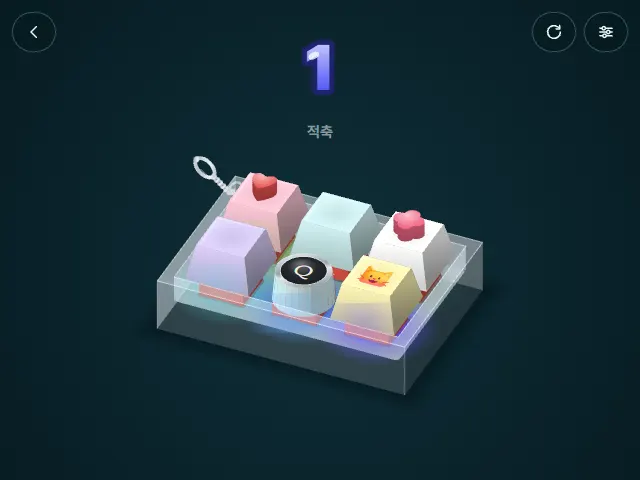
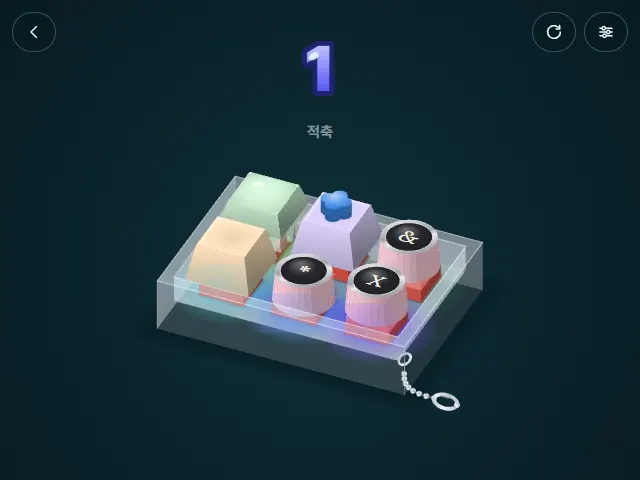
키링을 흔들지 않는다 — 탁자 위에 놓인 채 케이스와 함께 돈다
물리를 두 번 시도했지만 둘 다 틀렸다. 화면 평면에서 끌면 돌릴 때마다 휘둘리고,
중력으로 늘어뜨리면 공중에 매달린 꼴이라 탁자 위 장면과 맞지 않는다.
줄을 탁자면에 곡선으로 한 번 깔고 케이스와 같이 돌기만 하게 했다 — 흔들림도 자리 튐도 없다.

diff --git a/lib/engines/KeycapEngine.ts b/lib/engines/KeycapEngine.ts
@@ -66,8 +66,6 @@ export const createKeycapEngine: EngineFactory = (canvas, ctx0) => {
   }
   let keys: Key[] = [];
   /** 키링 줄의 구슬 — 선언이 layout() 보다 뒤면 초기화 때 TDZ 로 터진다 */
-  type Bead = { rx: number; ry: number; px: number; py: number };
-  let chain: Bead[] = [];
   let cols = 1, rows = 1, S = 80, cx = 0, cy = 0;
   let yaw = YAW0, pitch = PITCH0;
   let CT = Math.cos(yaw), ST = Math.sin(yaw);
@@ -105,7 +103,6 @@ export const createKeycapEngine: EngineFactory = (canvas, ctx0) => {
     cols = count <= 4 ? Math.ceil(Math.sqrt(count)) : 3;
     if (count === 2 || count === 3) cols = count;
     rows = Math.ceil(count / cols);
-    chain = [];
     for (let i = 0; i < keys.length; i++) {
       const col = i % cols, row = Math.floor(i / cols);
       const rowCount = row === rows - 1 ? count - row * cols : cols;
@@ -446,105 +443,76 @@ export const createKeycapEngine: EngineFactory = (canvas, ctx0) => {
    * 베를레로 푼다. 케이스가 돌면 매단 자리가 원을 그리며 움직이고 줄이 뒤따라 끌린다 —
    * 카메라 방향으로 모서리를 골라 매달면 각도가 바뀔 때마다 자리가 튄다 (2026-09-13 사용자 지적).
    */
-  const CHAIN_N = 8, CHAIN_L = 0.075;
-  /** 매단 자리 — 모델의 한 모서리를 yaw 로 돌린 평면 좌표 */
-  const chainAnchor = (): [number, number] => {
-    const ax = -(cols / 2 + CASE_PAD), ay = -(rows / 2 + CASE_PAD);
-    return [ax * CT - ay * ST, ax * ST + ay * CT];
-  };
-  const resetChain = () => {
-    const [ax, ay] = chainAnchor();
+  /*
+   * 키링 — **탁자 위에 놓인 채 케이스와 함께 돈다**.
+   *
+   * 처음엔 줄을 물리로 흔들었다. 화면 평면에서 끌면 돌릴 때마다 사방으로 휘둘리고(2026-09-15 사용자: "정신없다"),
+   * 아래로 늘어뜨리면 공중에 매달린 꼴이라 탁자 위에 놓인 이 장면과 맞지 않는다. 실제로 책상에 둔 키링은
+   * 그냥 **가만히 놓여 있다.** 그래서 줄을 모델 좌표(탁자면 z=0)에 한 번 깔아 두고, 케이스와 같이 돌기만 한다 —
+   * 흔들림이 아예 없고 자리도 튀지 않으며 각도가 바뀌어도 케이스 옆에 그대로 보인다.
+   */
+  const CHAIN_N = 9;
+  /** 줄이 시작하는 모서리와 뻗어 나가는 방향 (모델 좌표) */
+  const chainPath = (): [number, number][] => {
+    const hx0 = cols / 2 + CASE_PAD, hy0 = rows / 2 + CASE_PAD;
+    const ax = hx0, ay = hy0; // 앞오른쪽 모서리 — 처음 각도에서 화면 아래 빈자리로 뻗는다
     const d = Math.hypot(ax, ay) || 1;
-    chain = Array.from({ length: CHAIN_N }, (_, i) => {
-      const rx = ax + (ax / d) * i * CHAIN_L, ry = ay + (ay / d) * i * CHAIN_L;
-      return { rx, ry, px: rx, py: ry };
+    const dx = ax / d, dy = ay / d;
+    const px = -dy, py = dx; // 옆으로
+    const len = 0.72;
+    return Array.from({ length: CHAIN_N }, (_, i) => {
+      const t = i / (CHAIN_N - 1);
+      const bend = Math.sin(t * Math.PI) * len * 0.22; // 살짝 휘어 놓인 곡선
+      return [ax + dx * t * len + px * bend, ay + dy * t * len + py * bend] as [number, number];
     });
-  };
-  const stepChain = () => {
-    if (chain.length !== CHAIN_N) resetChain();
-    const [ax, ay] = chainAnchor();
-    for (let i = 1; i < CHAIN_N; i++) {
-      const b = chain[i];
-      const vx = (b.rx - b.px) * 0.88, vy = (b.ry - b.py) * 0.88;
-      b.px = b.rx; b.py = b.ry;
-      b.rx += vx; b.ry += vy;
-    }
-    // 접혀 뭉치지 않게 — 바깥으로 살살 밀고, 앞 두 알이 이룬 방향으로 곧게 편다
-    for (let i = 1; i < CHAIN_N; i++) {
-      const b = chain[i];
-      const d = Math.hypot(b.rx, b.ry) || 1e-4;
-      b.rx += (b.rx / d) * 0.003; b.ry += (b.ry / d) * 0.003;
-      if (i >= 2) {
-        const aa = chain[i - 2], a = chain[i - 1];
-        const tx = a.rx + (a.rx - aa.rx), ty = a.ry + (a.ry - aa.ry);
-        b.rx += (tx - b.rx) * 0.14; b.ry += (ty - b.ry) * 0.14;
-      }
-    }
-    chain[0].rx = ax; chain[0].ry = ay; chain[0].px = ax; chain[0].py = ay;
-    const ehx = cols / 2 + CASE_PAD + 0.05, ehy = rows / 2 + CASE_PAD + 0.05;
-    for (let pass = 0; pass < 6; pass++) {
-      for (let i = 1; i < CHAIN_N; i++) {
-        const a = chain[i - 1], b = chain[i];
-        const dx = b.rx - a.rx, dy = b.ry - a.ry;
-        const d = Math.hypot(dx, dy) || 1e-4;
-        const k = (d - CHAIN_L) / d;
-        b.rx -= dx * k; b.ry -= dy * k;
-      }
-      // 케이스 밑으로 파고들지 않게 — 모델 좌표로 되돌려 사각형 밖으로 민다
-      for (let i = 1; i < CHAIN_N; i++) {
-        const b = chain[i];
-        const mx = b.rx * CT + b.ry * ST, my = -b.rx * ST + b.ry * CT;
-        if (Math.abs(mx) >= ehx || Math.abs(my) >= ehy) continue;
-        let nmx = mx, nmy = my;
-        if (ehx - Math.abs(mx) < ehy - Math.abs(my)) nmx = (mx < 0 ? -1 : 1) * ehx;
-        else nmy = (my < 0 ? -1 : 1) * ehy;
-        b.rx = nmx * CT - nmy * ST; b.ry = nmx * ST + nmy * CT;
-      }
-    }
   };
   const metalGrad = (x: number, y: number, r: number) => {
     const g = ctx.createLinearGradient(x - r, y - r, x + r, y + r);
     g.addColorStop(0, "#ffffff"); g.addColorStop(0.34, "#b7bec6"); g.addColorStop(0.62, "#eef2f5"); g.addColorStop(1, "#79818b");
     return g;
   };
-  /** near=true 면 케이스보다 앞(ry>0)에 있는 토막만 — 앞뒤를 나눠 그려야 케이스와 겹쳐 보이지 않는다 */
-  const drawChain = (near: boolean) => {
-    const beadZ = (i: number) => (i === 0 ? RIM * 0.5 : i === 1 ? RIM * 0.22 : 0.02);
-    const scr = (i: number): [number, number] => [cx + chain[i].rx * S, cy + chain[i].ry * pitch * S - beadZ(i) * S];
+  /** 줄이 케이스보다 뒤에 놓였는가 — 그러면 케이스보다 먼저 그려 가려지게 둔다 */
+  const chainBehindCase = () => {
+    const pts = chainPath();
+    const mid = pts[Math.floor(CHAIN_N / 2)];
+    return depth(mid[0], mid[1]) < 0;
+  };
+  const drawChain = () => {
+    const pts = chainPath();
+    const scr = pts.map(([mx, my], i) => P(mx, my, i === 0 ? RIM * 0.5 : 0.03));
+    // 탁자에 지는 그림자
+    ctx.strokeStyle = "rgba(0, 8, 12, 0.22)"; ctx.lineWidth = Math.max(2, S * 0.07); ctx.lineCap = "round";
+    ctx.beginPath();
+    scr.forEach(([x, y], i) => (i === 0 ? ctx.moveTo(x + S * 0.02, y + S * 0.03) : ctx.lineTo(x + S * 0.02, y + S * 0.03)));
+    ctx.stroke();
+    // 케이스에 박힌 고리
+    ctx.lineWidth = Math.max(1.8, S * 0.032); ctx.strokeStyle = metalGrad(scr[0][0], scr[0][1], S * 0.1);
+    ctx.beginPath(); ctx.ellipse(scr[0][0], scr[0][1], S * 0.085, S * 0.06, -0.7, 0, TAU); ctx.stroke();
+    // 볼 체인
     for (let i = 1; i < CHAIN_N; i++) {
-      if (chain[i].ry > 0 !== near) continue;
-      const a = scr(i - 1), b = scr(i);
+      const a = scr[i - 1], b = scr[i];
       ctx.strokeStyle = "#98a0a8"; ctx.lineWidth = Math.max(1, S * 0.011);
       ctx.beginPath(); ctx.moveTo(a[0], a[1]); ctx.lineTo(b[0], b[1]); ctx.stroke();
-      const rr = S * 0.038;
+      const rr = S * 0.036;
       ctx.fillStyle = metalGrad(b[0], b[1], rr);
       ctx.beginPath(); ctx.arc(b[0], b[1], rr, 0, TAU); ctx.fill();
       ctx.fillStyle = "rgba(255,255,255,0.85)";
       ctx.beginPath(); ctx.arc(b[0] - rr * 0.32, b[1] - rr * 0.36, rr * 0.27, 0, TAU); ctx.fill();
     }
-    // 케이스에 박힌 고리
-    if (chain[0].ry > 0 === near) {
-      const [ox, oy] = scr(0);
-      ctx.lineWidth = Math.max(1.8, S * 0.032); ctx.strokeStyle = metalGrad(ox, oy, S * 0.1);
-      ctx.beginPath(); ctx.ellipse(ox, oy, S * 0.085, S * 0.06, -0.7, 0, TAU); ctx.stroke();
-    }
-    // 랍스터 클래스프 — 마지막 토막 방향으로 눕힌다
-    const last = CHAIN_N - 1;
-    if (chain[last].ry > 0 === near) {
-      const a = scr(last - 1), b = scr(last);
-      const ang = Math.atan2(b[1] - a[1], b[0] - a[0]);
-      ctx.save();
-      ctx.translate(b[0] + Math.cos(ang) * S * 0.16, b[1] + Math.sin(ang) * S * 0.16);
-      ctx.rotate(ang + Math.PI / 2);
-      const LL = S * 0.3, WW = S * 0.17;
-      ctx.lineWidth = Math.max(2, S * 0.048); ctx.strokeStyle = metalGrad(0, 0, LL * 0.6);
-      ctx.beginPath(); ctx.ellipse(0, 0, WW * 0.5, LL * 0.5, 0, 0, TAU); ctx.stroke();
-      ctx.lineWidth = Math.max(1, S * 0.016); ctx.strokeStyle = "rgba(118,126,134,0.9)";
-      ctx.beginPath(); ctx.moveTo(-WW * 0.3, -LL * 0.08); ctx.lineTo(-WW * 0.3, LL * 0.24); ctx.stroke();
-      ctx.fillStyle = metalGrad(0, -LL * 0.5, S * 0.05);
-      ctx.beginPath(); ctx.arc(0, -LL * 0.5, S * 0.037, 0, TAU); ctx.fill();
-      ctx.restore();
-    }
+    // 랍스터 클래스프 — 줄 끝 방향으로 눕는다
+    const a = scr[CHAIN_N - 2], b = scr[CHAIN_N - 1];
+    const ang = Math.atan2(b[1] - a[1], b[0] - a[0]);
+    ctx.save();
+    ctx.translate(b[0] + Math.cos(ang) * S * 0.15, b[1] + Math.sin(ang) * S * 0.15);
+    ctx.rotate(ang + Math.PI / 2);
+    const LL = S * 0.3, WW = S * 0.17;
+    ctx.lineWidth = Math.max(2, S * 0.048); ctx.strokeStyle = metalGrad(0, 0, LL * 0.6);
+    ctx.beginPath(); ctx.ellipse(0, 0, WW * 0.5, LL * 0.5, 0, 0, TAU); ctx.stroke();
+    ctx.lineWidth = Math.max(1, S * 0.016); ctx.strokeStyle = "rgba(118,126,134,0.9)";
+    ctx.beginPath(); ctx.moveTo(-WW * 0.3, -LL * 0.08); ctx.lineTo(-WW * 0.3, LL * 0.24); ctx.stroke();
+    ctx.fillStyle = metalGrad(0, -LL * 0.5, S * 0.05);
+    ctx.beginPath(); ctx.arc(0, -LL * 0.5, S * 0.037, 0, TAU); ctx.fill();
+    ctx.restore();
   };
 
   const hueOf = (i: number, t: number) => (t * 40 + i * 30) % 360;
@@ -646,8 +614,8 @@ export const createKeycapEngine: EngineFactory = (canvas, ctx0) => {
     }
     // 어느 쪽이 카메라에 가까운지 — 돌리면 앞뒤가 뒤바뀐다
     const ny = CT >= 0 ? 1 : -1, nx = ST >= 0 ? 1 : -1;
-    stepChain();
-    drawChain(false); // 케이스보다 뒤에 있는 토막
+    const chainBehind = chainBehindCase();
+    if (chainBehind) drawChain(); // 뒤에 놓였으면 케이스가 가리도록 먼저
     // 먼 쪽 껍데기 + 윗테 (키캡보다 먼저)
     ctx.globalAlpha = 0.5;
     wallY(-ny * hy, -hx, hx, -CASE_H, RIM, shade(ACRYL, faceLit([0, -ny])));
@@ -841,7 +809,7 @@ export const createKeycapEngine: EngineFactory = (canvas, ctx0) => {
       ctx.beginPath(); ctx.moveTo(a[0], a[1]); ctx.lineTo(b[0], b[1]); ctx.stroke();
     }
 
-    drawChain(true);
+    if (!chainBehind) drawChain();
   });
 
   return {
